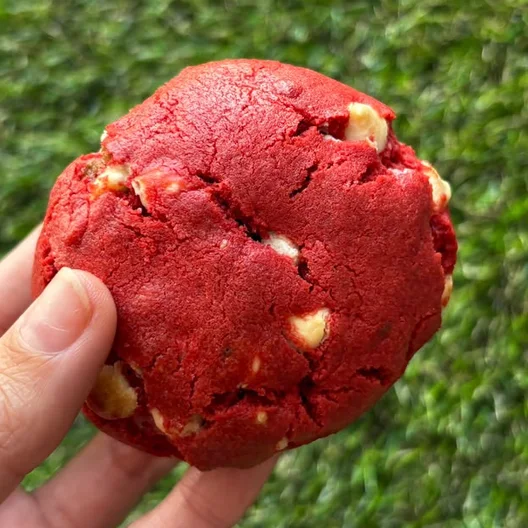
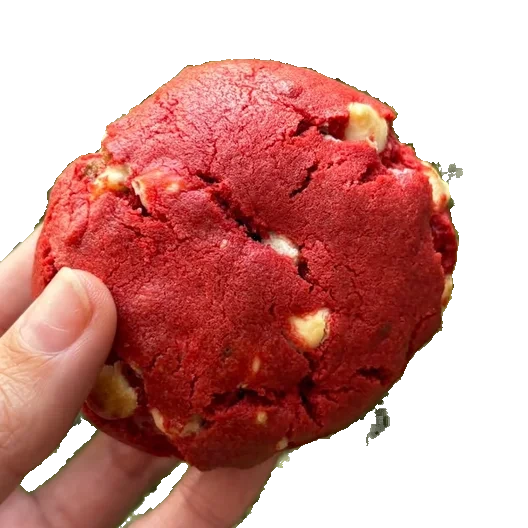
Um fundo so para os nove cookies
Duas coisas atrapalhavam a vitrine: cada card tinha a cor do seu sabor, e tres
fotos (tradicional, chocolate com cafe, red velvet) ainda tinham grama
artificial atras enquanto as outras seis eram recorte sem fundo.

- os nove cards passam a dividir o mesmo creme, com o preco em capsula verde. o
  prato redondo saiu: com todas as fotos recortadas, o biscoito pousa direto no
  card.
- a grama saiu das tres fotos por chroma key. a grama e a unica coisa
  verde-dominante da imagem, entao biscoito e mao ficam inteiros; depois uma
  erosao de 2 px come a franja e so a maior mancha e mantida, o que apaga os
  respingos de reflexo.
- no cardapio essas tres deixam de ser foto cheia e viram recorte, como as
  outras.

Ficam de fora o CupCookie e o biscoito de queijo: o copo e transparente e a
grama aparece atraves dele, entao o recorte automatico suja a borda inteira.
Esses dois so melhoram com foto nova.

Claude-Session: https://claude.ai/code/session_01LkhoQ7qrZJUmoDpyG3hAUa

diff --git a/index.html b/index.html
@@ -201,24 +201,24 @@ p{margin:0}
 
 .cards{list-style:none;margin:clamp(30px,4.4vh,50px) 0 0;padding:0;display:grid;
   grid-template-columns:repeat(3,1fr);gap:clamp(13px,1.8vw,24px)}
-.card{position:relative;border-radius:22px;background:var(--c);
+.card{position:relative;border-radius:22px;background:var(--paper);
   transition:transform .35s var(--ease),box-shadow .35s var(--ease)}
-.card a{display:block;text-decoration:none;color:#fff;padding:clamp(13px,1.5vw,18px)}
-.card:hover{transform:translateY(-5px);box-shadow:0 18px 40px rgba(0,0,0,.3)}
-.card-foto{background:var(--paper-2);border-radius:50%;width:min(88%,210px);aspect-ratio:1;
-  overflow:hidden;margin:clamp(4px,.8vw,10px) auto clamp(14px,1.7vw,20px)}
-.card-foto img{width:100%;height:100%;object-fit:cover}
-/* os recortes vem com fundo transparente: se cortar como foto, corta o cookie. */
-.card-foto.recorte img{object-fit:contain;padding:10%}
+.card a{display:block;text-decoration:none;color:var(--ink);padding:clamp(13px,1.5vw,18px)}
+.card:hover{transform:translateY(-5px);box-shadow:0 18px 40px rgba(0,0,0,.28)}
+/* todas as nove fotos sao recorte sem fundo, entao o biscoito pousa no proprio
+   card e nao precisa de prato atras. */
+.card-foto{width:min(92%,216px);aspect-ratio:1;margin:clamp(2px,.6vw,8px) auto clamp(12px,1.5vw,18px)}
+.card-foto img{width:100%;height:100%;object-fit:contain}
 .card-preco{position:absolute;top:clamp(21px,2.3vw,27px);right:clamp(21px,2.3vw,27px);z-index:2;
-  background:rgba(251,245,236,.95);color:var(--brand);border-radius:999px;
+  background:var(--brand);color:var(--paper);border-radius:999px;
   padding:5px 13px;font-size:.76rem;font-weight:500;line-height:1.5}
-.card h3{font-size:1.14rem}
-.card p{color:rgba(255,255,255,.78);font-size:.87rem;line-height:1.5;margin-top:5px}
+.escura .card h3{color:var(--brand);font-size:1.14rem}
+.card p{color:var(--muted);font-size:.87rem;line-height:1.5;margin-top:5px}
 @media (max-width:900px){.cards{grid-template-columns:repeat(2,1fr)}}
 @media (max-width:520px){.cards{grid-template-columns:1fr}
   .card a{display:grid;grid-template-columns:96px 1fr;gap:16px;align-items:center;padding:15px}
   .card-foto{width:96px;margin:0}
+  .card-foto img{object-fit:contain}
   .card-preco{top:14px;right:15px}
   /* o preco flutua no canto: o titulo precisa parar antes dele */
   .card h3{padding-right:74px}}
@@ -421,7 +421,7 @@ p{margin:0}
       </div>
 
       <ul class="cards rv">
-        <li class="card" style="--c:#8A5F2C">
+        <li class="card">
           <span class="card-preco">R$ 10,00</span>
           <a href="cardapio.html#artesanais">
             <div class="card-foto">
@@ -433,7 +433,7 @@ p{margin:0}
             </div>
           </a>
         </li>
-        <li class="card" style="--c:#5A3A28">
+        <li class="card">
           <span class="card-preco">R$ 11,00</span>
           <a href="cardapio.html#artesanais">
             <div class="card-foto">
@@ -445,7 +445,7 @@ p{margin:0}
             </div>
           </a>
         </li>
-        <li class="card" style="--c:#8E2233">
+        <li class="card">
           <span class="card-preco">R$ 12,00</span>
           <a href="cardapio.html#artesanais">
             <div class="card-foto">
@@ -457,10 +457,10 @@ p{margin:0}
             </div>
           </a>
         </li>
-        <li class="card" style="--c:#232323">
+        <li class="card">
           <span class="card-preco">R$ 18,00</span>
           <a href="cardapio.html#gourmets">
-            <div class="card-foto recorte">
+            <div class="card-foto">
               <img src="assets/sabores/oreo.webp" alt="Cookie black oreo" width="264" height="264" loading="lazy" decoding="async">
             </div>
             <div class="card-txt">
@@ -469,10 +469,10 @@ p{margin:0}
             </div>
           </a>
         </li>
-        <li class="card" style="--c:#3E2A1C">
+        <li class="card">
           <span class="card-preco">R$ 21,00</span>
           <a href="cardapio.html#recheados">
-            <div class="card-foto recorte">
+            <div class="card-foto">
               <img src="assets/sabores/nutella.webp" alt="Cookie black nutella partido, com o recheio escorrendo" width="264" height="264" loading="lazy" decoding="async">
             </div>
             <div class="card-txt">
@@ -481,10 +481,10 @@ p{margin:0}
             </div>
           </a>
         </li>
-        <li class="card" style="--c:#6E6350">
+        <li class="card">
           <span class="card-preco">R$ 24,00</span>
           <a href="cardapio.html#gourmets">
-            <div class="card-foto recorte">
+            <div class="card-foto">
               <img src="assets/sabores/raffaello.webp" alt="Cookie Raffaello" width="264" height="264" loading="lazy" decoding="async">
             </div>
             <div class="card-txt">
@@ -493,10 +493,10 @@ p{margin:0}
             </div>
           </a>
         </li>
-        <li class="card" style="--c:#7A4E1E">
+        <li class="card">
           <span class="card-preco">R$ 25,00</span>
           <a href="cardapio.html#gourmets">
-            <div class="card-foto recorte">
+            <div class="card-foto">
               <img src="assets/sabores/ferrero.webp" alt="Cookie Ferrero Rocher" width="264" height="264" loading="lazy" decoding="async">
             </div>
             <div class="card-txt">
@@ -505,10 +505,10 @@ p{margin:0}
             </div>
           </a>
         </li>
-        <li class="card" style="--c:#4A3220">
+        <li class="card">
           <span class="card-preco">R$ 26,00</span>
           <a href="cardapio.html#recheados">
-            <div class="card-foto recorte">
+            <div class="card-foto">
               <img src="assets/sabores/brookie.webp" alt="Cookie brookie, metade cookie metade brownie" width="264" height="264" loading="lazy" decoding="async">
             </div>
             <div class="card-txt">
@@ -517,10 +517,10 @@ p{margin:0}
             </div>
           </a>
         </li>
-        <li class="card" style="--c:#24303F">
+        <li class="card">
           <span class="card-preco">R$ 29,00</span>
           <a href="cardapio.html#gourmets">
-            <div class="card-foto recorte">
+            <div class="card-foto">
               <img src="assets/sabores/alpino.webp" alt="Cookie Alpino Black" width="264" height="264" loading="lazy" decoding="async">
             </div>
             <div class="card-txt">
@@ -664,7 +664,7 @@ p{margin:0}
         <a href="https://instagram.com/steeledoces" target="_blank" rel="noopener" aria-label="Instagram da Steele Doces">
           <img src="assets/sabores/biscoito-queijo.webp" alt="Trio de biscoitos de queijo" width="264" height="264" loading="lazy" decoding="async"></a>
         <a href="https://instagram.com/steeledoces" target="_blank" rel="noopener" aria-label="Instagram da Steele Doces">
-          <img src="assets/sabores/redvelvet.webp" alt="Cookie red velvet na mão" width="264" height="264" loading="lazy" decoding="async"></a>
+          <img src="assets/trio.webp" alt="Três cookies Steele partidos, com o recheio à mostra" width="1000" height="1500" loading="lazy" decoding="async"></a>
         <a href="https://instagram.com/steeledoces" target="_blank" rel="noopener" aria-label="Instagram da Steele Doces">
           <img src="assets/sabores.webp" alt="Vários cookies da Steele lado a lado" width="1200" height="900" loading="lazy" decoding="async"></a>
         <a href="https://instagram.com/steeledoces" target="_blank" rel="noopener" aria-label="Instagram da Steele Doces">

diff --git a/cardapio.html b/cardapio.html
@@ -362,7 +362,7 @@ main{padding:0 var(--gut) clamp(50px,8vh,90px)}
       <div class="montador" id="montador" hidden></div>
     </li>
     <li class="it" data-id="tradicional" data-nome="Tradicional" data-preco="10">
-      <img class="it-foto it-foto-cheia" src="assets/sabores/tradicional.webp" alt="Cookie tradicional na mão, com gotas de chocolate à mostra" width="264" height="264" loading="lazy" decoding="async">
+      <img class="it-foto" src="assets/sabores/tradicional.webp" alt="Cookie tradicional na mão, com gotas de chocolate à mostra" width="264" height="264" loading="lazy" decoding="async">
       <div class="it-txt">
         <h3>Tradicional</h3>
         <p>Massa amanteigada com gotas generosas. O ponto de referência da casa.</p>
@@ -377,7 +377,7 @@ main{padding:0 var(--gut) clamp(50px,8vh,90px)}
       </div>
     </li>
     <li class="it" data-id="chocolate-com-cafe" data-nome="Chocolate com café" data-preco="11">
-      <img class="it-foto it-foto-cheia" src="assets/sabores/cafe.webp" alt="Cookie de chocolate com café na mão, com pedaços de chocolate" width="264" height="264" loading="lazy" decoding="async">
+      <img class="it-foto" src="assets/sabores/cafe.webp" alt="Cookie de chocolate com café na mão, com pedaços de chocolate" width="264" height="264" loading="lazy" decoding="async">
       <div class="it-txt">
         <h3>Chocolate com café</h3>
         <p>Cacau meio amargo com café na massa. Menos doce, mais fundo.</p>
@@ -392,7 +392,7 @@ main{padding:0 var(--gut) clamp(50px,8vh,90px)}
       </div>
     </li>
     <li class="it" data-id="red-velvet" data-nome="Red velvet" data-preco="12">
-      <img class="it-foto it-foto-cheia" src="assets/sabores/redvelvet.webp" alt="Cookie red velvet na mão, com gotas de chocolate branco" width="264" height="264" loading="lazy" decoding="async">
+      <img class="it-foto" src="assets/sabores/redvelvet.webp" alt="Cookie red velvet na mão, com gotas de chocolate branco" width="264" height="264" loading="lazy" decoding="async">
       <div class="it-txt">
         <h3>Red velvet</h3>
         <p>Massa aveludada com chocolate branco. Doçura curta, cor inteira.</p>
